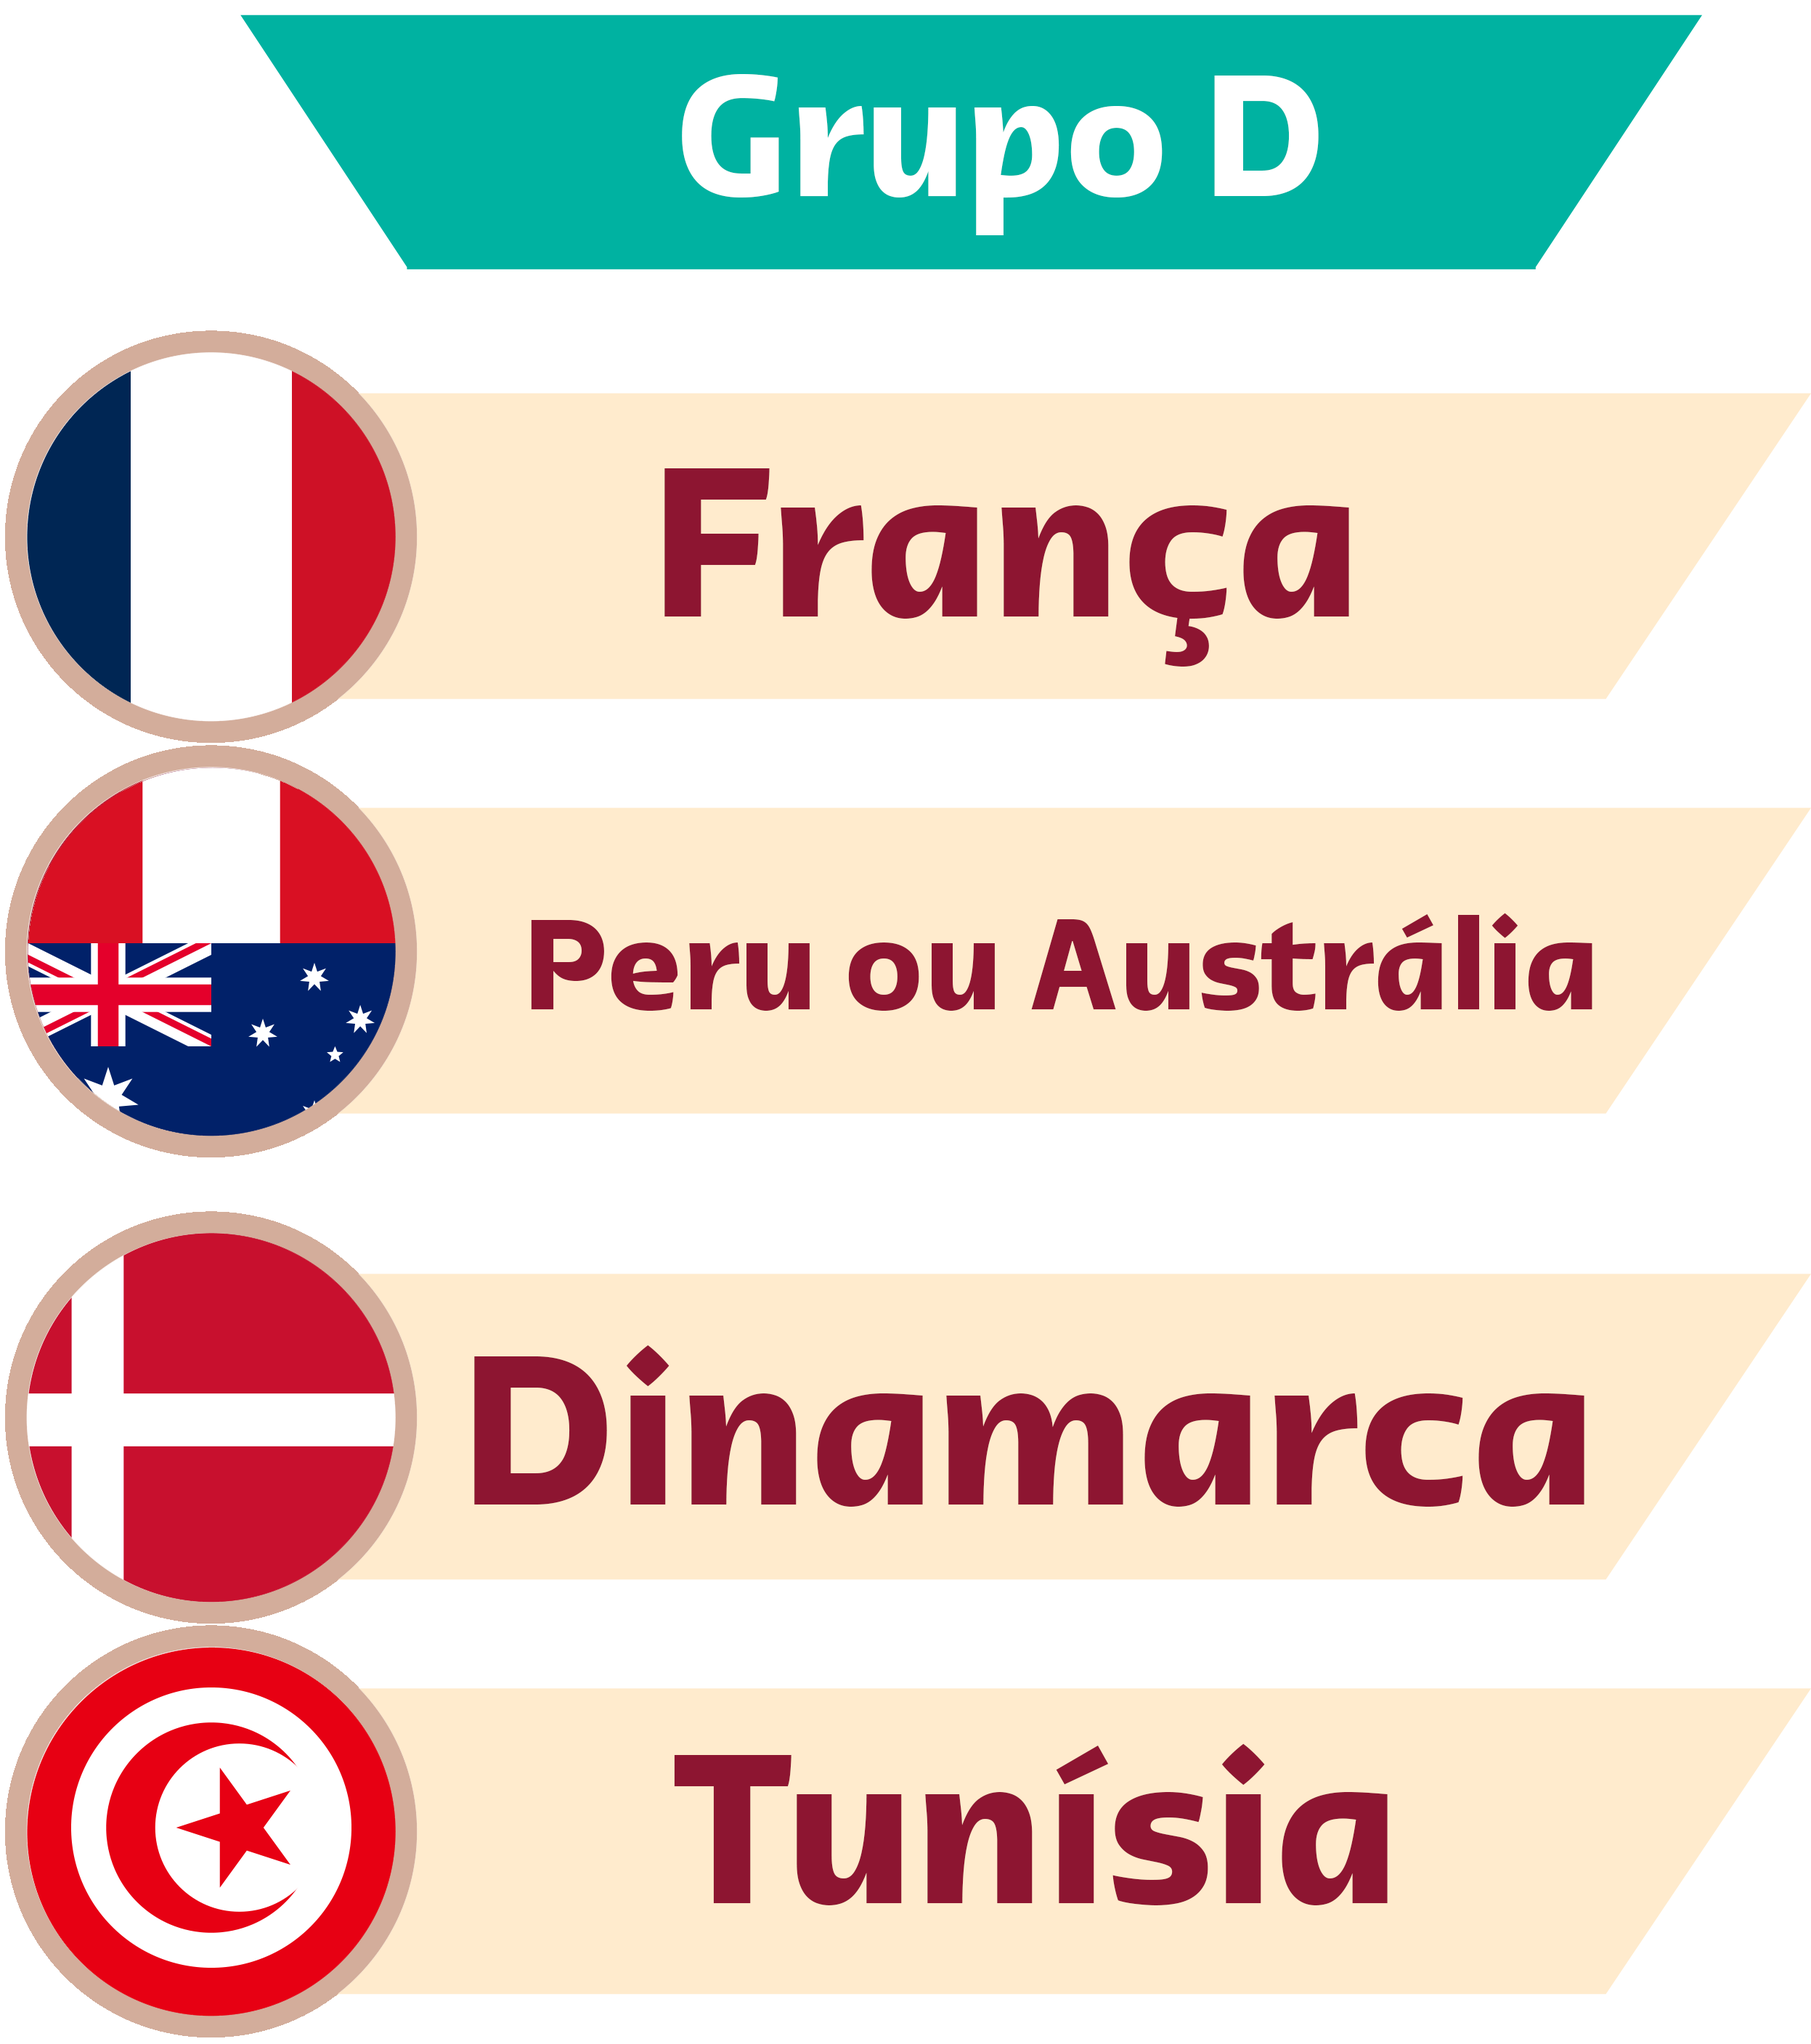
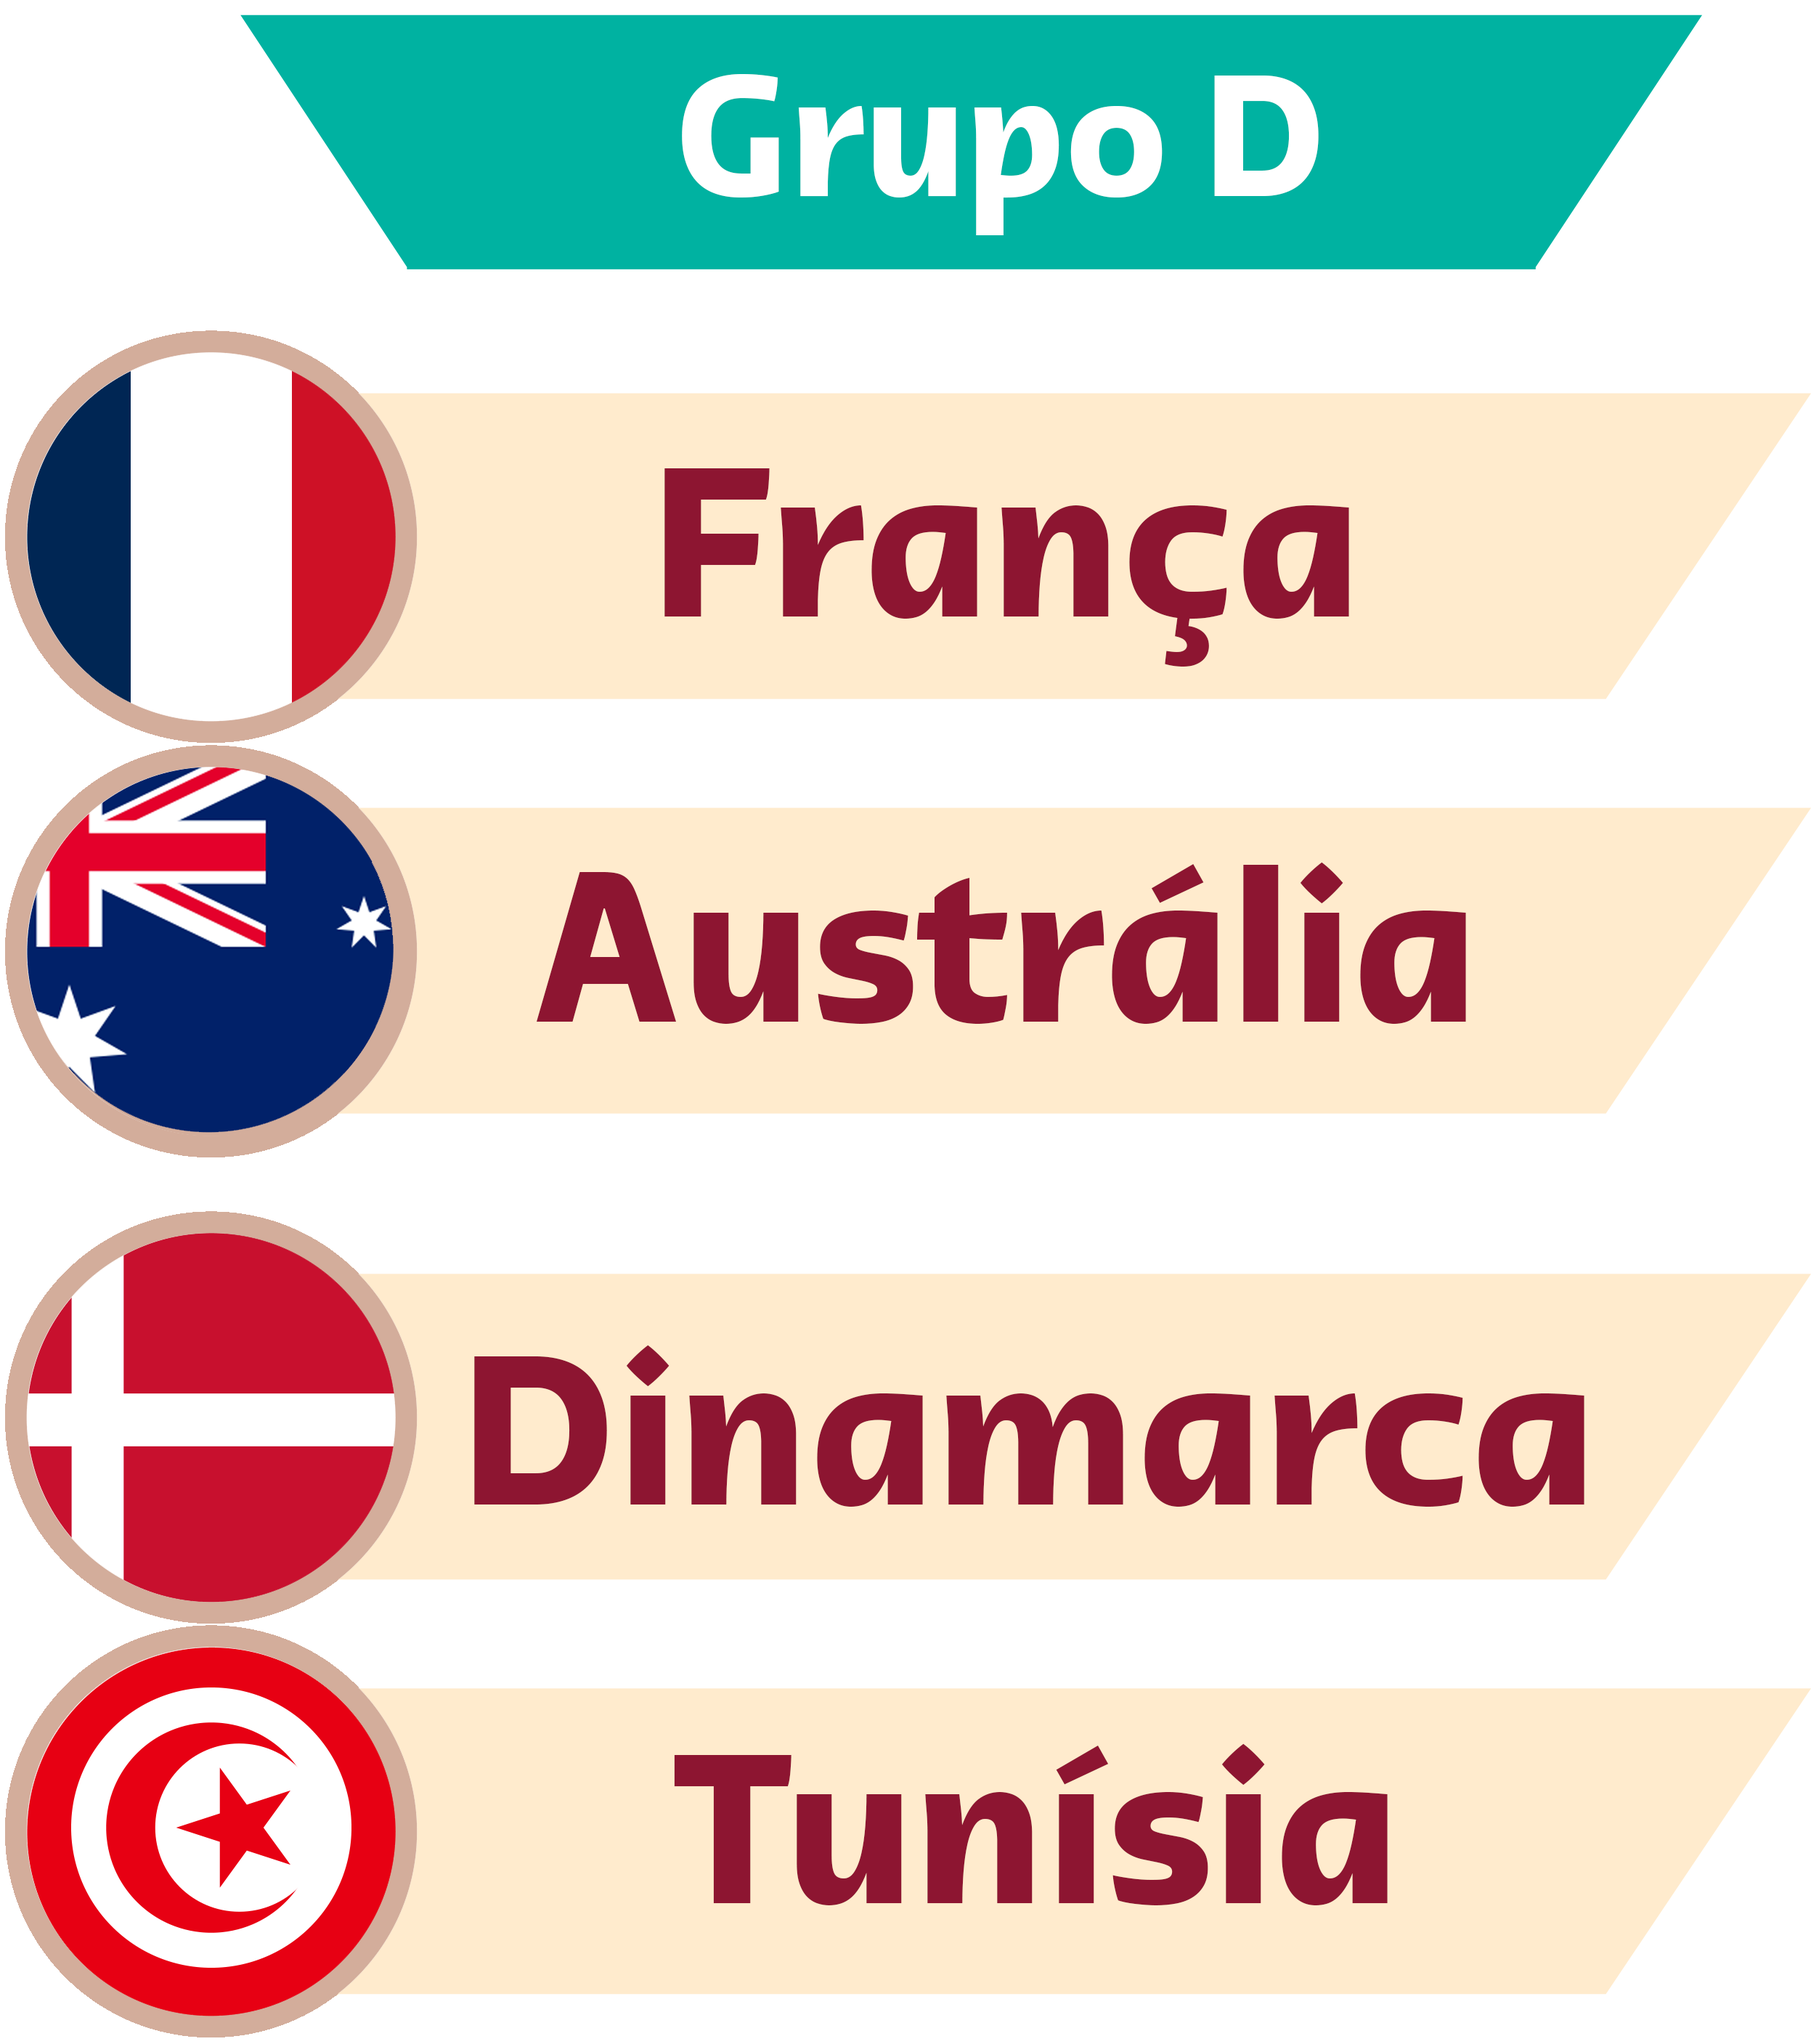
Adicionei a Austrália

Changed region(s): [[0.2779, 0.4018, 0.8953, 0.5254], [0.0, 0.3709, 0.2161, 0.5563], [0.1852, 0.4945, 0.2161, 0.5254]]

diff --git a/html/Grupo D.html b/html/Grupo D.html
@@ -63,8 +63,8 @@
                  <td>0</td>
                  <td>100%</td>
             </tr>
-            <tr><td><img src="../Imgs/Grupo D/Indefinido.png" alt="A definir" title="A definir" 
-                height="60px"><br><b>A definir</b></td>
+            <tr><td><img src="../Imgs/Grupo D/Australia.png" alt="Austrália" title="Austrália" 
+                height="60px"><br><b>Austrália</b></td>
                 <td>0</td>
                 <td>0</td>
                 <td>0</td>
@@ -132,8 +132,8 @@
                                     title="França"><br><b>França</b>
                                 </td>
                                 <td>
-                                    <img src="../Imgs/Grupo D/Indefinido.png" alt="A definir" height="60px" 
-                                    title="A definir"><br><b>A definir</b>
+                                    <img src="../Imgs/Grupo D/Australia.png" alt="Austrália" height="60px" 
+                                    title="Austrália"><br><b>Austrália</b>
                                 </td>
                             </tr>
                 </thead>
@@ -152,8 +152,8 @@
                             title="Tunísia"><br><b>Tunísia</b>
                         </td>
                         <td>
-                            <img src="../Imgs/Grupo D/Indefinido.png" alt="A definir" height="60px" 
-                            title="A definir"><br><b>A definir</b>
+                            <img src="../Imgs/Grupo D/Australia.png" alt="Austrália" height="60px" 
+                            title="Austrália"><br><b>Austrália</b>
                         </td>
                     </tr>
                     <tr>
@@ -195,8 +195,8 @@
                             </tr>
                             <tr>
                                 <td>
-                                    <img src="../Imgs/Grupo D/Indefinido.png" alt="A definir" height="60px" 
-                                    title="A definir"><br><b>A definir</b>
+                                    <img src="../Imgs/Grupo D/Australia.png" alt="Austrália" height="60px" 
+                                    title="Austrália"><br><b>Austrália</b>
                                 </td>
                                 <td>
                                     <img src="../Imgs/Grupo D/Dinamarca.png" alt="Dinamarca" height="60px" 

diff --git a/grupos.css b/grupos.css
@@ -12,3 +12,6 @@ table{
     margin: auto;
     width: 40%;
 }
+
+
+
